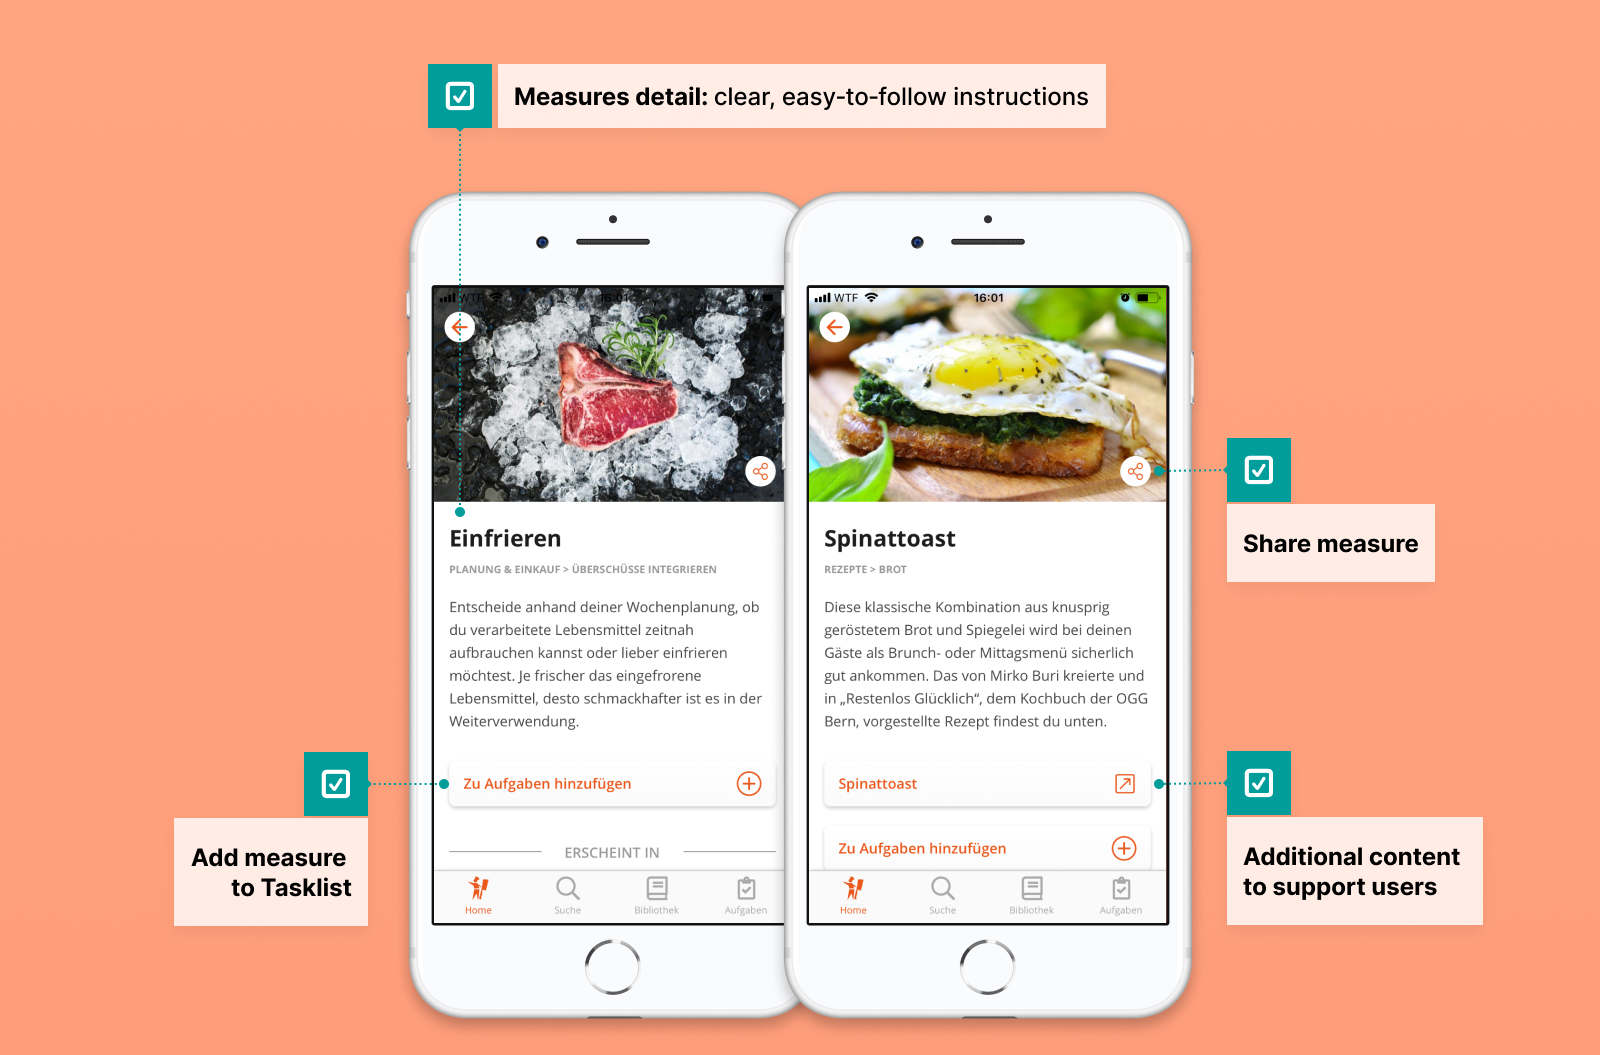
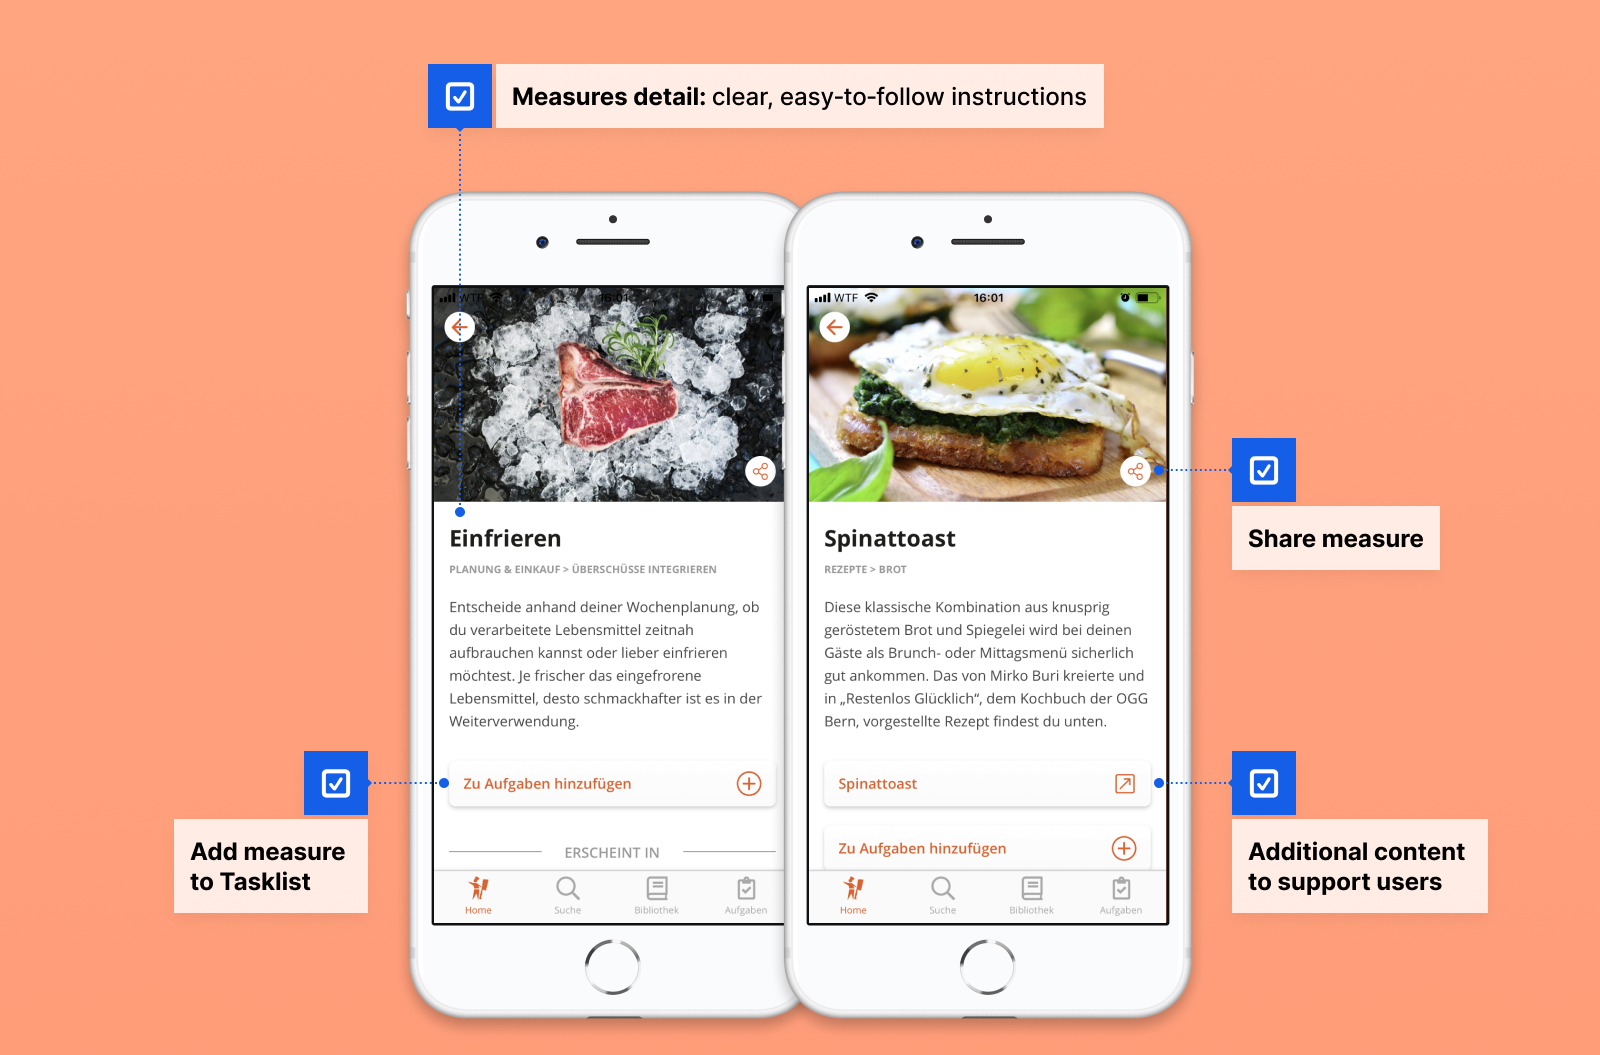
Food Save: resync content and images; center figure captions
Full resync of food-save.mdx from the source doc (new Home subsection,
sequential figures instead of CompareImages, restored semicolon list
punctuation), plus the first real image set exported from Figma for
this case: FS-00-cover-banner/thumb, FS-02-library, FS-03-measure-detail,
FS-04-tasklist, FS-05-home. Old placeholder images removed.

Also centers inline figure captions under their image and bumps the
zoom-dialog caption to --text-md for legibility at the larger size.

diff --git a/HANDOFF.md b/HANDOFF.md
@@ -1,6 +1,6 @@
 # Handoff
 
-Last updated: 2026-08-28 (session 17)
+Last updated: 2026-08-29 (session 18)
 
 ## Where we are
 
@@ -11,6 +11,17 @@ The staging deploy emits `<meta name="robots" content="noindex">` on every page 
 Astro is configured with `site: 'https://dgigiu.github.io'` and `base: '/mj-portfolio'`. All internal links use the normalized base exported from [src/lib/paths.ts](src/lib/paths.ts).
 
 Build is clean (`npm run build` → 6 pages, 0 errors / 0 warnings).
+
+## What changed in this session (2026-08-29, session 18)
+
+Full resync of [food-save.mdx](src/content/case-studies/food-save.mdx) from **[docs/Case Studies/cs-food-save-app.md](docs/Case Studies/cs-food-save-app.md)**, plus the first real image set for this case (previously all placeholders). Build clean (7 pages, 0/0/0), all 5 new images verified 200 in-browser and correctly wired into both the case page and the home card.
+
+- **Images exported from Figma** (`RqT7cSB5meoG2VQu7ggWNo`, page "version 2") via the Figma MCP: `FS-02-library`, `FS-03-measure-detail`, `FS-04-tasklist`, `FS-05-home` (all PNG, 1600×1055, matching the existing UI-screen convention) and the cover, exported as **both** `FS-00-cover-banner.jpg` (1920×960) and `FS-00-cover-thumb.jpg` (1200×900). Only the banner frame was asked for, but a matching `FS-00-cover-thumb` frame already existed in the Figma page at exactly the 1200×900 target from the session-16 spec, so I exported it too rather than reusing the banner for both slots. This finally gives food-save the same two-image cover treatment myfoodways got in session 17 (the open item from that session). Format followed the established pattern exactly: jpg for the photographic cover (hand holding a phone), png for the UI-screen frames, scale 1, filenames matching frame names verbatim.
+- **Old placeholder images deleted**: `FS-01-hero-cover.png`, `FS-01-hero.png`, `FS-03-tasklist.png` (content now `FS-04-tasklist.png`), `FS-04-home.png` (content now `FS-05-home.png`).
+- **Whole-body rewrite from the doc**, same approach as session 17's myfoodways pass. New content folded in: a "Home" subsection under Design execution (previously the home screen had no dedicated write-up), a sentence about sharing a measure directly with a colleague in Measure library, and a closing Collaboration paragraph tying the user research back to the budget-saving implementation choice. Measure library and Measure detail are now two sequential `<Figure>`s instead of a `<CompareImages>` side-by-side, matching how the doc presents them as full multi-panel screens rather than single-screen comparisons; `CompareImages` import dropped since nothing uses it anymore in this file.
+- **Bullet-list semicolons restored to match the doc**, consistent with [[feedback_bullet_list_punctuation]] and the immediately preceding commit that did the same for myfoodways: the UX design learnings list (previously plain periods, a leftover from session 6 before that convention was established) now uses semicolons with a final full stop, like every other list in this file.
+- **Minor editorial smoothing kept from the pre-existing text over the doc's raw phrasing** in two spots, both same-meaning, not content changes: the Role section's "Moritz and Mark (Swiss Foodways team → United Against Waste)" stayed as flowing prose rather than the doc's arrow shorthand; the Part of a pair section's "Food Save suggested measures to adopt; the Waste Tracker showed..." kept its semicolon over the doc's comma splice.
+- **Doc file itself updated too**: replaced all five `FIGMA:name` placeholders in `cs-food-save-app.md` with real relative paths to the exported assets, per this session's explicit request (the myfoodways doc was left with its placeholders after its session-17 resync; this is a deliberate difference this time, not an inconsistency to fix).
 
 ## What changed in this session (2026-08-28, session 17)
 
@@ -25,7 +36,7 @@ Full resync of [myfoodways.mdx](src/content/case-studies/myfoodways.mdx) from Mi
 ### Open item for Miguel
 
 - **`MFW-05-flexible-recipe2.png` still doesn't exist.** The doc's Flexible recipe flow section still narrates a second image after the "Let's cook" MVP paragraph (a "Let's cook" final screen with leftover/storage tips), but no file for it was ever re-exported — Miguel confirmed recipe2 was meant to replace recipe as a single updated image, not exist as a second screen, so this build uses just `MFW-05-flexible-recipe.png` and the follow-on paragraph runs as plain text with no second figure. If a second screen is still wanted there, export `MFW-05-flexible-recipe2.png` and say so and I'll add the figure back.
-- The other two case studies (food-save, team-files) still point `thumbnail`/`banner` at their old single hero-cover placeholder — same two-image treatment needed when their new images land.
+- ~~The other two case studies (food-save, team-files) still point `thumbnail`/`banner` at their old single hero-cover placeholder~~ — food-save got its real images and two-image cover treatment in session 18. **team-files** still points `thumbnail`/`banner` at its old single `TF-01-hero-cover.png` placeholder; same treatment needed when its new images land.
 
 ## What changed in this session (2026-08-28, session 16)
 
